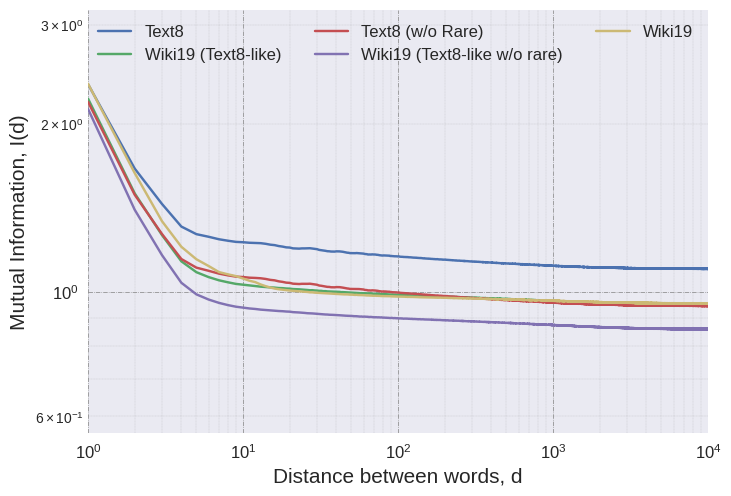
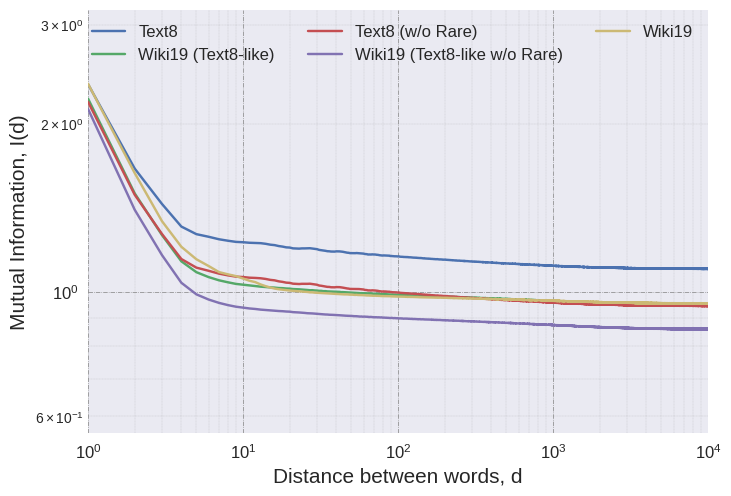
up

Changed region(s): [[0.4815, 0.0302, 0.7825, 0.121], [0.1806, 0.0302, 0.3912, 0.121]]

diff --git a/paper_related/plot_words.py b/paper_related/plot_words.py
@@ -8,7 +8,8 @@ from matplotlib.text import OffsetFrom
 
 filenames = ["penn_tree","text8","text8_wor","text8_subset","text8_subset_wor","wiki2","wiki2_raw","wiki2_cleaned", \
             "wiki19","wiki19_text8","wiki103","wiki103_raw","wiki103_cleaned","wiki_sample_1","wiki_sample_2", \
-            "wiki_ptb_size_1","wiki_ptb_size_2","wiki_ptb_vocab_1","wiki_ptb_vocab_2","10kGNAD","wiki_sample_3","wiki_sample_4","wiki19_text8_wor","text8_wor_5"]
+            "wiki_ptb_size_1","wiki_ptb_size_2","wiki_ptb_vocab_1","wiki_ptb_vocab_2","10kGNAD","wiki_sample_3", \
+            "wiki_sample_4","wiki19_text8_wor","text8_subset_wor_4","text8_wor_5"]
 
 all_mi = []
 all_hx = []
@@ -59,20 +60,22 @@ with plt.style.context(('seaborn')):
     # plt.loglog(np.arange(1,len(all_mi[0])+1), all_mi[0], label="PTB")
 
     plt.loglog(np.arange(1,len(all_mi[1])+1), all_mi[1], label="Text8")
+    plt.loglog(np.arange(1,len(all_mi[9])+1), all_mi[9], label="Wiki19 (Text8-like)")
+
     plt.loglog(np.arange(1,len(all_mi[2])+1), all_mi[2], label="Text8 (w/o Rare)")
-    plt.loglog(np.arange(1,len(all_mi[3])+1), all_mi[3], label="Text8 (Small)")
-    plt.loglog(np.arange(1,len(all_mi[4])+1), all_mi[4], label="Text8 (Small w/o Rare)")
-    plt.loglog(np.arange(1,len(all_mi[23])+1), all_mi[23], label="Text8 (w/o Rare 5)")
+    plt.loglog(np.arange(1,len(all_mi[22])+1), all_mi[22], label="Wiki19 (Text8-like w/o Rare)")
+
+    # plt.loglog(np.arange(1,len(all_mi[3])+1), all_mi[3], label="Text8 (Small)")
+    # plt.loglog(np.arange(1,len(all_mi[4])+1), all_mi[4], label="Text8 (w/o Rare Small)")
+    # plt.loglog(np.arange(1,len(all_mi[23])+1), all_mi[23], label="Text8 (w/o Rare (4) Small)")
 
     # plt.loglog(np.arange(1,len(all_mi[5])+1), all_mi[5], label="Wiki2")
     # plt.loglog(np.arange(1,len(all_mi[6])+1), all_mi[6], label="Wiki2 (Raw)")
     # plt.loglog(np.arange(1,len(all_mi[7])+1), all_mi[7], label="Wiki2 (Cleaned)")
 
-    # plt.loglog(np.arange(1,len(all_mi[8])+1), all_mi[8], label="Wiki19")
-    # plt.loglog(np.arange(1,len(all_mi[9])+1), all_mi[9], label="Wiki19 (Text8-like)")
-    # plt.loglog(np.arange(1,len(all_mi[22])+1), all_mi[22], label="Wiki19 (Text8-like w/o Rare)")
+    plt.loglog(np.arange(1,len(all_mi[8])+1), all_mi[8], label="Wiki19")
 
-    # plt.loglog(np.arange(1,len(all_mi[10])+1), all_mi[10], label="Wiki103")
+    # plt.loglog(np.arange(1,len(all_mi[10])+1), all_mi[10], "b-", label="Wiki103")
     # plt.loglog(np.arange(1,len(all_mi[11])+1), all_mi[11], label="Wiki103 (Raw)")
     # plt.loglog(np.arange(1,len(all_mi[12])+1), all_mi[12], label="Wiki103 (Cleaned)")
 
@@ -120,5 +123,5 @@ with plt.style.context(('seaborn')):
     # ax.annotate('0.020500', xy=(3,all_mi[21][3]), size=10)
 
     lgd = ax.legend(loc='upper right', shadow=True, fancybox=True, ncol=3, numpoints=1, prop={'size': 12})
-    plt.savefig('lm_words_subset_1', bbox_extra_artists=(lgd,), bbox_inches='tight')
+    plt.savefig('lm_words_factors', bbox_extra_artists=(lgd,), bbox_inches='tight')
     plt.show()
